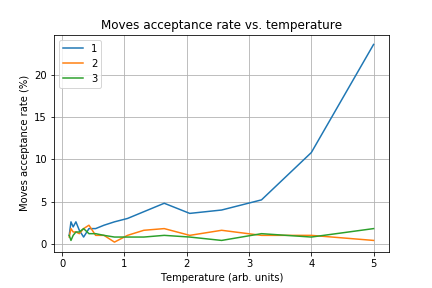
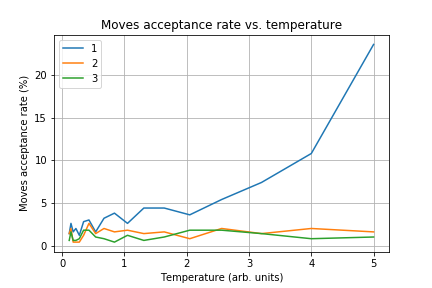
Updated functions.py, modified main.py accordingly

Changed region(s): [[0.0903, 0.375, 0.9028, 0.875], [0.7824, 0.2812, 0.8125, 0.375], [0.8125, 0.25, 0.8426, 0.2812]]

diff --git a/functions.py b/functions.py
@@ -36,18 +36,21 @@ def travel(N):
     return city
 
 
-def length(city):
+def length(city, citylist):
     '''
     Calculates the length of the travel.
     Parameters:
         city: coordinates of the cities (array).
+        citylist: list containing the number associated to each city,
+                 and their visiting order (i.e. the list index number).
+
     Returns:
         leng: length of the travel.
     '''
     leng = 0.
     for i in range(len(city[0])):
         for icoo in (0, 1): #coo=coordinate, loop for each component
-            leng += np.sqrt((city[icoo][i]-city[icoo][i-1])**2)
+            leng += np.sqrt((city[icoo][citylist[i]]-city[icoo][citylist[i-1]])**2)
         
     return leng
 
@@ -167,16 +170,14 @@ def prunegraft(x , y, z, citylist):
 #--------------------------------------------------------------------------|
  
        
-def anneal_BRev_distance(N, alpha, T, city, T_min, nstep, citylist):
+def anneal_BRev_distance(N, Tem, city, nstep, citylist):
     '''
     Executes the annealing procedure by using block reverse moves,
     and the minimization of the distance as the move acceptance criterion.
     Parameters:
         N: number of the cities to consider.
-        alpha: temperature scaling parameter.
-        T: maximum "temperature" of the system.
+        Tem: temperatures' array.
         city: coordinates of the cities.
-        T_min: minimum temperature.
         nstep: number of moves for a single iteration.
         citylist: list containing the number associated to each city,
                  and their visiting order (i.e. the list index number).        
@@ -185,10 +186,9 @@ def anneal_BRev_distance(N, alpha, T, city, T_min, nstep, citylist):
         accelist: list containing the acceptance rate for each temperature.   
         Tem: list containing the temperatures.
     '''
-    Tem = []
     accelist = []
-    old=length(N, city, citylist)
-    while T > T_min:
+    old=length(city, citylist)
+    for i in range(len(Tem)):
         acce = 0; ii = 0
         while ii <= nstep:
             ii += 1
@@ -198,20 +198,18 @@ def anneal_BRev_distance(N, alpha, T, city, T_min, nstep, citylist):
                 x = int(N*rand.rand())
                 y = int(N*rand.rand())
             citylist = breverse(x, y, citylist)
-            new = length(N, city, citylist) 
+            new = length(city, citylist) 
             
-            if np.exp(-(new-old)/T) >= 1:
+            if np.exp(-(new-old)/Tem[i]) >= 1:
                 old = new
                 acce += 1
-                new = length(N, city, citylist)
+                new = length(city, citylist)
             else:
                 citylist=breverse(y, x, citylist) 
                 
-        Tem.append(T)
         accelist.append(100*float(acce)/nstep)
-        T = T*alpha
         
-    return citylist, accelist, Tem
+    return citylist, accelist
  
        
 def anneal_BRev_Metropolis(N, alpha, T, city, T_min, nstep, citylist):

diff --git a/main.py b/main.py
@@ -37,32 +37,32 @@ while True:
         break
 
 city = functions.travel(N)
-citynum = list(range(N))
-start=functions.length(N, city, citynum)
+citylist = list(range(N))
+start=functions.length(city, citylist)
 print('Initial distance:', round(start, 4))
 distances=[start]
-T_len = functions.Tem_length(T, T_min, alpha) #I need it in order to def. tot_acceptance
-tot_acceptance = np.zeros((iterations, T_len))
+Tem = functions.Temp(T, T_min, alpha) #I need it in order to def. tot_acceptance
+tot_acceptance = np.zeros((iterations, len(Tem)))
 
 for ii in range(iterations):
     if choice == 'BD': 
-        citynum, accelist, Tem=functions.anneal_BRev_distance(N, alpha, T, city, T_min, nstep, citynum)
+        citylist, accelist=functions.anneal_BRev_distance(N, Tem, city, nstep, citylist)
     if choice == 'BM':
-        citynum, accelist, Tem=functions.anneal_BRev_Metropolis(N, alpha, T, city, T_min, nstep, citynum) 
+        citylist, accelist, Tem=functions.anneal_BRev_Metropolis(N, alpha, T, city, T_min, nstep, citylist) 
     if choice == 'SM':
-        citynum, accelist, Tem=functions.anneal_swap_Metropolis(N, alpha, T, city, T_min, nstep, citynum) #BOH
+        citylist, accelist, Tem=functions.anneal_swap_Metropolis(N, alpha, T, city, T_min, nstep, citylist) #BOH
     if choice == 'SD':
-        citynum, accelist, Tem=functions.anneal_swap_distance(N, alpha, T, city, T_min, nstep, citynum) 
+        citylist, accelist, Tem=functions.anneal_swap_distance(N, alpha, T, city, T_min, nstep, citylist) 
     if choice == 'PM':
-        citynum, accelist, Tem=functions.anneal_PG_Metropolis(N, alpha, T, city, T_min, nstep, citynum)
+        citylist, accelist, Tem=functions.anneal_PG_Metropolis(N, alpha, T, city, T_min, nstep, citylist)
     if choice == 'PD':
-        citynum, accelist, Tem=functions.anneal_PG_distance(N, alpha, T, city, T_min, nstep, citynum)
+        citylist, accelist, Tem=functions.anneal_PG_distance(N, alpha, T, city, T_min, nstep, citylist)
     
     tot_acceptance[ii][:]=accelist
-    distances.append(functions.length(N, city, citynum))
+    distances.append(functions.length(city, citylist))
     print('Current distance:', round(distances[ii+1], 4),', Iteration:',ii+1)
 
-path = functions.get_path(N, city, citynum)
+path = functions.get_path(N, city, citylist)
 
 np.save(file1, distances)
 np.save(file2, path)

diff --git a/plot.py b/plot.py
@@ -9,7 +9,7 @@ import matplotlib.pyplot as plt
 import configparser
 
 config = configparser.ConfigParser()
-config.read('inpus.txt')
+config.read('inputs.txt')
 
 iterations = config.getint('parameters', 'iterations')
 file1 = config.get('files','distances')
